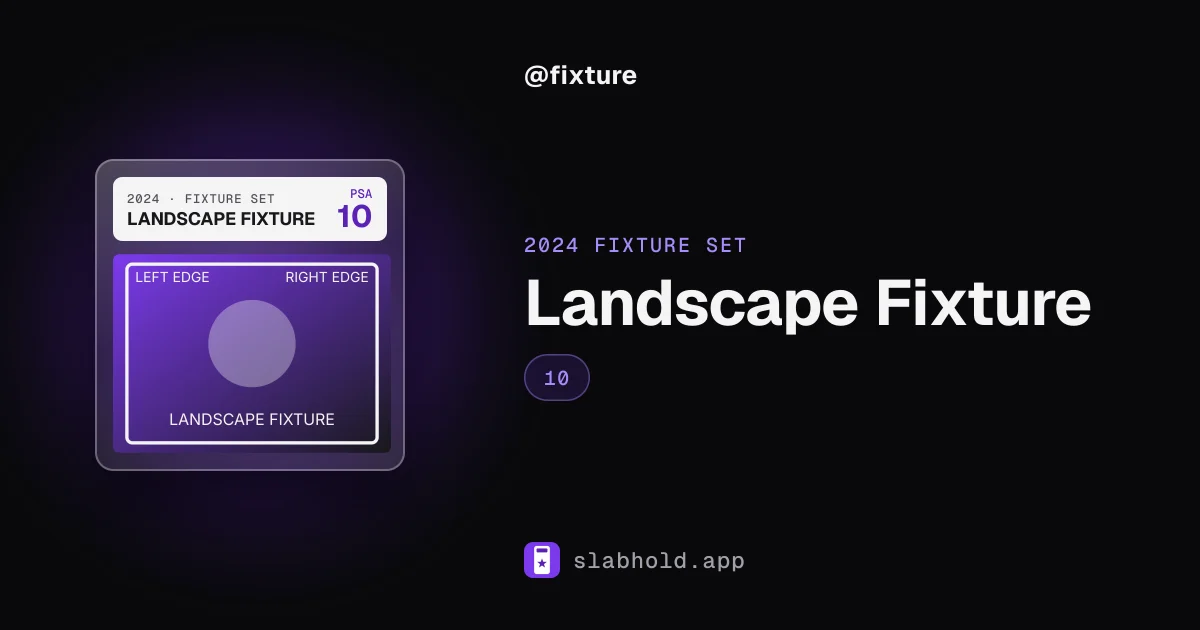
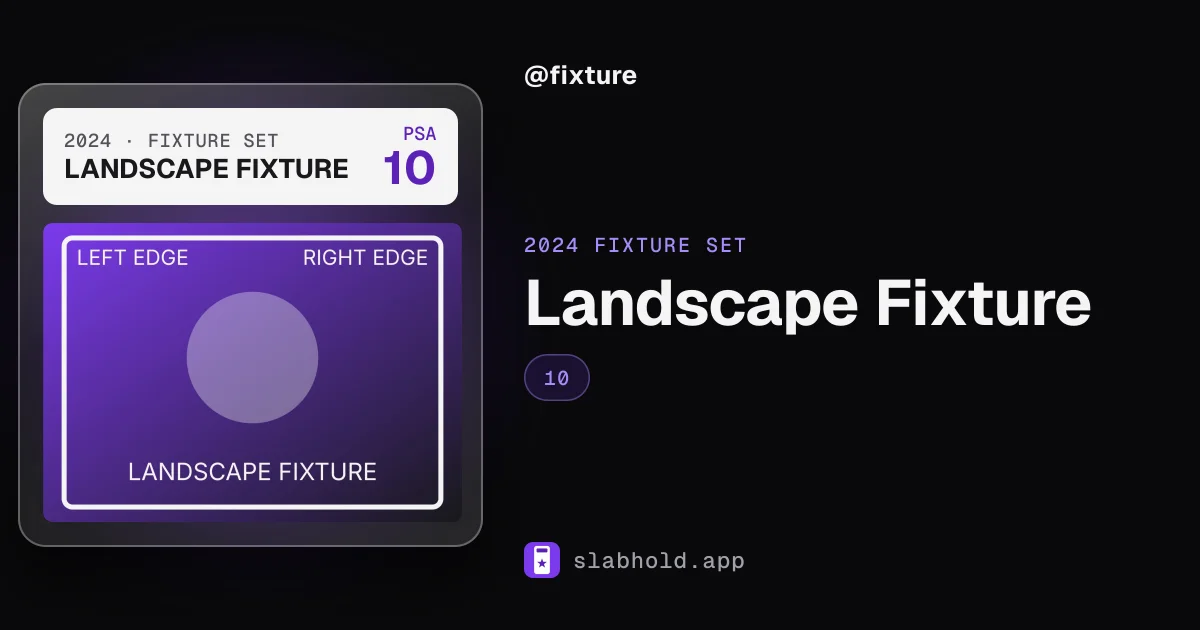
Horizontal cards 2: wider landscape slab on single-slab heroes
On the card OG, card story, post slab hero, profile single slab and the
single-slab invite/collection hero, a landscape slab gets about 1.5x the
portrait width (heroSlabWidth), capped at the hero column and never taller
than the portrait slab. Fans and grids are unchanged. Updated the
landscape-og and landscape-story after screenshots.

Claude-Session: https://claude.ai/code/session_01EqJov1vJDJxTq1nnGQeEgo

Changed region(s): [[0.0, 0.1206, 0.4008, 0.8746]]

diff --git a/components/og-share.tsx b/components/og-share.tsx
@@ -299,6 +299,23 @@ export function slabHeight(slab: ShareSlab | null, width: number): number {
   return pad * 2 + photo + label + 4;
 }
 
+/** The same slab drawn portrait, for sizing a box the way an unknown photo would. */
+function asPortrait(slab: ShareSlab | null): ShareSlab | null {
+  return slab?.shape === "landscape" ? { ...slab, shape: undefined } : slab;
+}
+
+/**
+ * A single-slab hero's width. A landscape slab gets about 1.5x the portrait
+ * width, capped at the hero column and never taller than the portrait slab.
+ */
+export function heroSlabWidth(slab: ShareSlab | null, portraitWidth: number, cap: number): number {
+  if (slab?.shape !== "landscape") return portraitWidth;
+  const limit = slabHeight(asPortrait(slab), portraitWidth);
+  let width = Math.max(portraitWidth, Math.min(Math.round(portraitWidth * 1.5), Math.floor(cap)));
+  while (width > portraitWidth && slabHeight(slab, width) > limit) width -= 2;
+  return width;
+}
+
 /**
  * A slab in a fan or grid. A landscape slab sits centered in the space a
  * portrait one takes, so the group keeps its box.
@@ -306,7 +323,7 @@ export function slabHeight(slab: ShareSlab | null, width: number): number {
 function SlabCell({ slab, width }: { slab: ShareSlab; width: number }) {
   if (slab.shape !== "landscape") return <Slab slab={slab} width={width} />;
   return (
-    <div style={{ ...col, width, height: slabHeight({ ...slab, shape: undefined }, width), justifyContent: "center" }}>
+    <div style={{ ...col, width, height: slabHeight(asPortrait(slab), width), justifyContent: "center" }}>
       <Slab slab={slab} width={width} />
     </div>
   );
@@ -314,8 +331,7 @@ function SlabCell({ slab, width }: { slab: ShareSlab; width: number }) {
 
 /** The fan box for slabs: the first slab's portrait height, so wide slabs don't shrink it. */
 function fanHeight(slabs: ShareSlab[], width: number): number {
-  const first = slabs[0];
-  return slabHeight(first ? { ...first, shape: undefined } : null, width) + 40;
+  return slabHeight(asPortrait(slabs[0] ?? null), width) + 40;
 }
 
 function Photo({ src, width, height }: { src: string; width: number; height: number }) {
@@ -447,8 +463,8 @@ function postHero(model: ShareImage, canvas: Canvas): { node: ReactNode; width: 
   if (layout === "slab") {
     const slab = model.slabs[0] ?? null;
     let width = Math.round(300 * k);
-    while (slabHeight(slab, width) > height - 70 && width > 200) width -= 10;
-    return { node: <Slab slab={slab} width={width} />, width: 470 };
+    while (slabHeight(asPortrait(slab), width) > height - 70 && width > 200) width -= 10;
+    return { node: <Slab slab={slab} width={heroSlabWidth(slab, width, 470)} />, width: 470 };
   }
   if (layout === "photo") {
     const src = model.kind === "mail" ? model.photos[0] : model.postPhotos[0];
@@ -593,7 +609,8 @@ function Handle({ handle, size = 26 }: { handle: string; size?: number }) {
 function CardLandscape({ model, canvas }: { model: ShareImage; canvas: Canvas }) {
   const slab = model.slabs[0] ?? null;
   let width = Math.round(310 * heroScale(canvas));
-  while (slabHeight(slab, width) > canvas.height - 70 && width > 200) width -= 10;
+  while (slabHeight(asPortrait(slab), width) > canvas.height - 70 && width > 200) width -= 10;
+  width = heroSlabWidth(slab, width, 500);
   return (
     <Stage canvas={canvas}>
       <Glow size={780} x={260} y={canvas.height / 2} strength={0.6} />
@@ -614,7 +631,8 @@ function CardLandscape({ model, canvas }: { model: ShareImage; canvas: Canvas })
 function CardPortrait({ model, canvas }: { model: ShareImage; canvas: Canvas }) {
   const slab = model.slabs[0] ?? null;
   let width = Math.round(460 * heroScale(canvas));
-  while (slabHeight(slab, width) > 720 && width > 300) width -= 10;
+  while (slabHeight(asPortrait(slab), width) > 720 && width > 300) width -= 10;
+  width = heroSlabWidth(slab, width, canvas.width - 144);
   return (
     <Stage canvas={canvas}>
       <Pattern canvas={canvas} />
@@ -641,7 +659,7 @@ function ProfileLandscape({ model, canvas }: { model: ShareImage; canvas: Canvas
         items={slabs.map((slab) => <SlabCell key={slab.src} slab={slab} width={width} />)}
       />
     ) : (
-      <Slab slab={slabs[0] ?? null} width={width} />
+      <Slab slab={slabs[0] ?? null} width={heroSlabWidth(slabs[0] ?? null, width, 496)} />
     );
   const name = model.title;
   return (
@@ -777,7 +795,7 @@ function BrandFrame({ canvas, inset = 18 }: { canvas: Canvas; inset?: number }) 
 
 /** 0 cards: the empty slab. 1: one slab. 2 or 3: a fan. */
 function SlabFan({ slabs, width, box }: { slabs: ShareSlab[]; width: number; box: number }) {
-  if (slabs.length <= 1) return <Slab slab={slabs[0] ?? null} width={width} />;
+  if (slabs.length <= 1) return <Slab slab={slabs[0] ?? null} width={heroSlabWidth(slabs[0] ?? null, width, box)} />;
   return (
     <Fan
       box={{ width: box, height: fanHeight(slabs, width), item: width }}

diff --git a/lib/share/slab-hero-width.test.ts b/lib/share/slab-hero-width.test.ts
@@ -1,0 +1,36 @@
+import assert from "node:assert/strict";
+import { describe, it } from "node:test";
+import { heroSlabWidth, slabHeight } from "../../components/og-share";
+import { shareSlab, type ShareSlab } from "../social/share-image";
+
+const graded = shareSlab("https://example.test/a.jpg", { player: "Fixture Player", grade: "10", grader: "PSA", conditionType: "graded" });
+const raw = shareSlab("https://example.test/b.jpg", { player: "Fixture Player", conditionType: "raw" });
+const wide = (slab: ShareSlab): ShareSlab => ({ ...slab, shape: "landscape" });
+
+describe("single-slab hero width", () => {
+  it("keeps portrait, unknown and empty slabs at the portrait width", () => {
+    assert.equal(heroSlabWidth(graded, 310, 500), 310);
+    assert.equal(heroSlabWidth({ ...graded, shape: "portrait" }, 310, 500), 310);
+    assert.equal(heroSlabWidth(null, 310, 500), 310);
+  });
+
+  it("gives a landscape slab about 1.5x the width, capped at the hero column", () => {
+    assert.equal(heroSlabWidth(wide(graded), 310, 500), 465);
+    assert.equal(heroSlabWidth(wide(graded), 460, 936), 690);
+    assert.equal(heroSlabWidth(wide(graded), 400, 500), 500);
+    assert.equal(heroSlabWidth(wide(raw), 250, 464), 375);
+  });
+
+  it("never draws a landscape slab taller than the portrait one", () => {
+    for (const slab of [graded, raw]) {
+      for (const [portraitWidth, cap] of [[310, 500], [300, 470], [460, 936], [280, 496], [250, 464], [420, 900], [200, 2000]] as const) {
+        const width = heroSlabWidth(wide(slab), portraitWidth, cap);
+        assert.ok(width > portraitWidth && width <= cap, `${portraitWidth} -> ${width}`);
+        assert.ok(
+          slabHeight(wide(slab), width) <= slabHeight(slab, portraitWidth),
+          `${slab.graded ? "graded" : "raw"} ${portraitWidth}: ${slabHeight(wide(slab), width)} > ${slabHeight(slab, portraitWidth)}`,
+        );
+      }
+    }
+  });
+});
